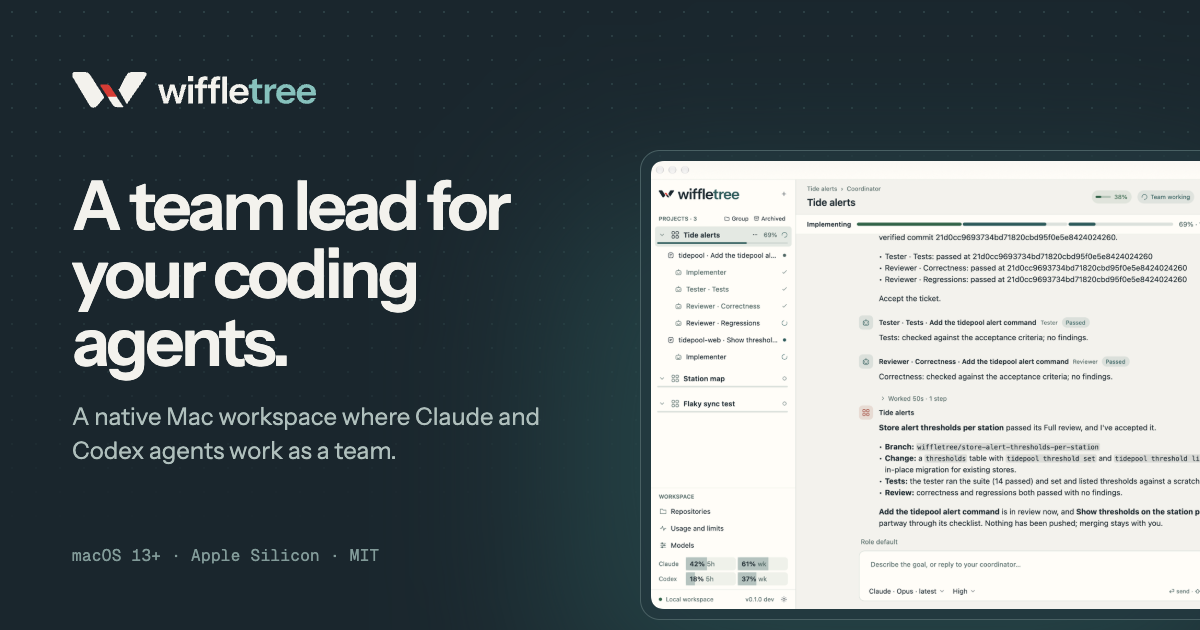
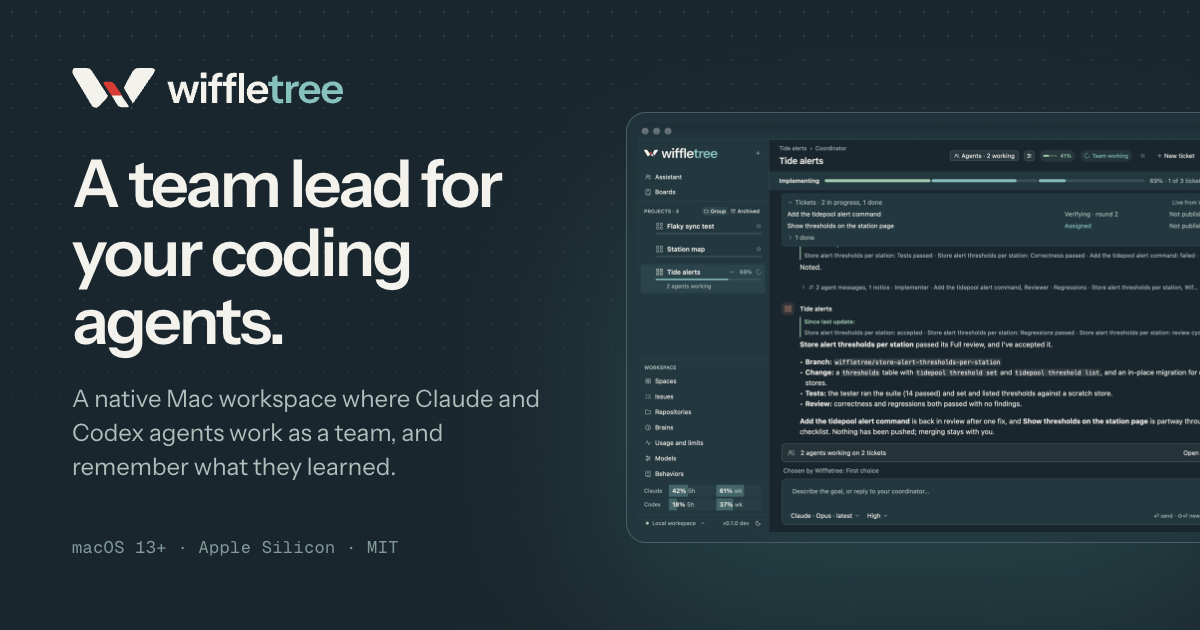
Use the dark app screenshots and add the remaining gallery tabs
The gallery now has all ten tabs, with alt text and captions written from the new captures, and the social image is recomposed from the dark coordinator screenshot.

diff --git a/src/lib/content.ts b/src/lib/content.ts
@@ -193,27 +193,63 @@ export type Screen = { tab: string; src: string; alt: string; caption: string };
 export const screens: Screen[] = [
   {
     tab: "Agents",
-    src: "/screens/tickets.png",
-    alt: "The Agents panel beside the coordinator’s chat, listing three tickets by stage with their agents, models and progress",
+    src: "/screens/agents.png",
+    alt: "The Agents panel beside the coordinator’s chat, listing two open tickets by stage with their agents, models and progress",
     caption: "Every ticket gets its own branch, implementer and independent reviewers.",
   },
   {
     tab: "Who runs what",
     src: "/screens/models.png",
-    alt: "The Models page: when a subscription runs low, and the Who runs what table, with a first choice, a next choice and a Right now column for each job",
+    alt: "The Models page’s Who runs what table, with a first choice, a next choice, a small-work line and a Right now column for each job from Coordinator to Router",
     caption: "You decide who runs each job, and what happens when a subscription runs low.",
   },
   {
     tab: "Usage",
     src: "/screens/usage.png",
-    alt: "The Usage page with Claude and Codex 5-hour and weekly limits above a week of daily tokens",
-    caption: "Provider limits side by side, above the tokens your agents used each day.",
+    alt: "The Usage page with Claude and Codex 5-hour and weekly account limits above seven days of token totals, an estimated API cost and a breakdown by model",
+    caption: "Account limits from the providers, above the tokens your agents used by model.",
   },
   {
     tab: "Context",
     src: "/screens/context.png",
-    alt: "An implementer Context card showing how full its context window is, by category, with a Compact button",
+    alt: "The coordinator’s Overview panel with a Context card showing how full its context window is, by category, with a Compact button",
     caption: "See what fills an agent’s context, and compact it when you choose.",
+  },
+  {
+    tab: "Spaces",
+    src: "/screens/spaces.png",
+    alt: "The Spaces page with the Tidepool Space open, showing what belongs in it, its brain, brain gate, code repositories and sources, beside the Personal Space",
+    caption: "Each Space keeps its own brain, repositories, issues and agent settings.",
+  },
+  {
+    tab: "Brain",
+    src: "/screens/brain.png",
+    alt: "The brain browser’s Status view for the Tidepool brain, with its status note beside its compile times and five pending entries",
+    caption: "Read a Space’s brain in the app, from its status note to its wiki, logs and conflicts.",
+  },
+  {
+    tab: "Issues",
+    src: "/screens/issues.png",
+    alt: "The Issues page as a board, with TIDE issues in Triage, Backlog, Todo and In progress columns, each with its priority and labels",
+    caption: "A tracker for ideas, bugs and requests, kept in the Space’s own repository.",
+  },
+  {
+    tab: "Assistant",
+    src: "/screens/assistant.png",
+    alt: "An assistant thread in the Tidepool Space answering a status question from its brain, then saving two outputs to Boards",
+    caption: "The assistant answers in read-only threads, and saves what you ask for to Boards.",
+  },
+  {
+    tab: "Boards",
+    src: "/screens/boards.png",
+    alt: "The Boards page listing six outputs from jobs and threads, each with a preview, its Space, where it came from, when it changed and where it is kept",
+    caption: "Everything your threads and scheduled jobs save, in one place.",
+  },
+  {
+    tab: "Behaviors",
+    src: "/screens/behaviors.png",
+    alt: "The Behaviors page at Workspace scope, with stock settings for coordinators and implementers as switches and menus, and additions for each role",
+    caption: "Stock defaults for how your agents work, changed where you need them.",
   },
 ];
 
